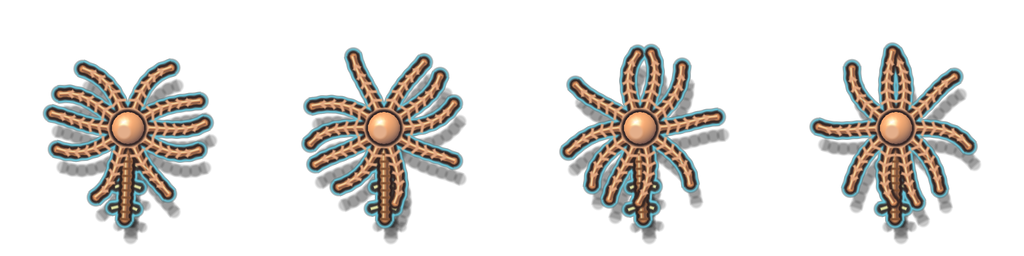
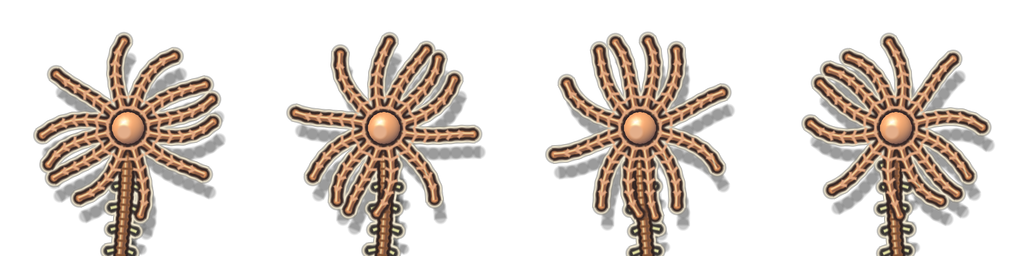
Sea lily line: fan digs fossil slabs, slower and frailer, new twist each era
The held filter fan now scrapes obstacles (fossil slabs open with it).
Sea lily speed 280->210 and +3 health (was +6), damage raised to stay balanced.
Stalked sea lily crawls away on its arms (CRAWL), Endoxocrinus has a bowl fan
that digests caught shots, Metacrinus sheds and regrows arms, feather stars
swim with the fan open. Each stalked form is drawn differently.

Claude-Session: https://claude.ai/code/session_01AHUH6aJMRuJA9EPKd96vbC

diff --git a/tools/balance_report.py b/tools/balance_report.py
@@ -42,7 +42,11 @@ for name, body in re.findall(r'"(\w+)": \{("melee".*?)\},?\n', section("const WE
 
 ESCAPES = dict(re.findall(r'"(\w+)": \["(\w+)"', section("const ESCAPES =", "const ESCAPE_STYLES")))
 # Forms without a dash: how much each escape is worth (toughness, attack)
-ESCAPE_VALUE = {"withdraw": (1.25, 1.0), "bristle": (1.1, 1.1), "tubules": (1.15, 1.05), "ink": (1.15, 1.05)}
+ESCAPE_VALUE = {"withdraw": (1.25, 1.0), "bristle": (1.1, 1.1), "tubules": (1.15, 1.05), "ink": (1.15, 1.05),
+                "crawl": (1.1, 1.0)}
+# Crinoid fan twists (Lineages.FAN_TWISTS): (toughness, attack) multipliers
+FAN_TWIST_VALUE = {"isocrinid_sea_lily": (1.0, 1.0), "endoxocrinus": (1.12, 1.0), "metacrinus": (1.15, 1.08),
+                   "feather_star": (1.0, 1.08), "rosy_feather_star": (1.0, 1.08), "reef_feather_star": (1.0, 1.08)}
 
 FORMS = {}
 for path, body in re.findall(r'\n    "([\d,]*)": \{(.*?)\n    \}', section("const TREE =", "const VISION ="), re.S):
@@ -128,6 +132,9 @@ for path, body in FORMS.items():
         tv, av = ESCAPE_VALUE[ESCAPES[text(body, "id")]]
         t *= tv
         a *= av
+    tv, av = FAN_TWIST_VALUE.get(text(body, "id"), (1.0, 1.0))
+    t *= tv
+    a *= av
     m = move(body)
     s = senses(body)
     score = a * t ** 0.8 * m * s ** 0.3
